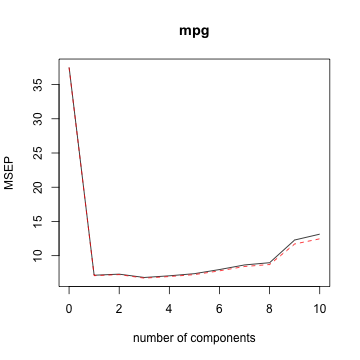
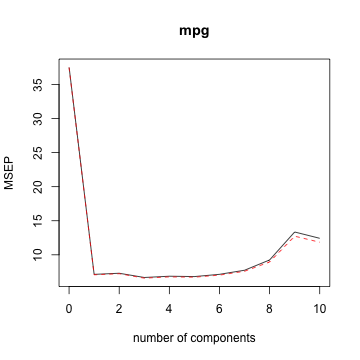
small edits

diff --git a/_posts/2015-12-27-ML-Bias-Variance.md b/_posts/2015-12-27-ML-Bias-Variance.md
@@ -62,15 +62,32 @@ For continuous responses, the root mean square error is often used. This is defi
 $$RMSE = \sqrt{E\left((x - \bar{x})^2\right)}$$
 
 ## Classification
-For binary responses, ROC (Receiver Operating Characteristic) curve and AUC (Area Under the Curve) can be used. 
+The following is the confusion matrix we would get for a two-class classification problem. 
 
 <img src="/nhuyhoa/figure/source/2015-12-27-ML-Bias-Variance/unnamed-chunk-3-1.png" title="plot of chunk unnamed-chunk-3" alt="plot of chunk unnamed-chunk-3" style="display: block; margin: auto;" />
 
 There are four possible outcomes:
 
-* True positive (I): (+) instance correctly classified as (+)
-* False positive (II): (-) instance incorrectly classified as (+)
-* False negative (III): (+) instance incorrectly classified as (-)
-* True negative (IV): (-) instance correctly classified as (-)
+* **True positive (I)**: (+) instance correctly classified as (+)
+* **False positive (II)**: (-) instance incorrectly classified as (+)
+* **False negative (III)**: (+) instance incorrectly classified as (-)
+* **True negative (IV)**: (-) instance correctly classified as (-)
 
-The ROC curve plots the true positive rate $$\left( P(predict.T \vert actual.T) \right)$$ vs. the false positive rate $$\left( P(predict.T \vert actual.F) \right)$$ across a range of thresholds. Then the AUC is calculated as a measure of accuracy. A perfect model has a $$AUC = 1$$. A model with an $$AUC = 0.5$$ is no better than random guessing.
+### ROC
+For binary responses, ROC (Receiver Operating Characteristic) AUC (Area Under the Curve) can be used. 
+
+* **True positive rate** $$= \left( P(predict.T \vert actual.T) \right)$$
+* **False positive rate** $$= \left( P(predict.T \vert actual.F) \right)$$ 
+
+The ROC curve plots the true positive rate  vs. the false positive rate across a range of thresholds. Then the AUC is calculated as a measure of accuracy. A perfect model has a $$AUC = 1$$, the trends should hug the upper left corner of the curve. A model with an $$AUC = 0.5$$ is no better than random guessing.
+
+### Precision Recall Curves
+Precision recall curves are preferred over ROC when there are highly skewed classes. 
+
+* **Precision** $$= \frac{true.positive}{true.positive + false.positive}$$
+* **Recall** $$= \frac{true.positive}{true.positive + false.negative}$$ 
+
+For example, cancer cases may be skewed towards the negative cancer (more non-cancer cases than cancer). However, it is extremely important to detect cancer when it exists. So focusing on precision and recall is definitely preferred over true positive and false positive rates. 
+
+The PR curve plots the precision vs. recall. An ideal algorithm will hug the upper right hand side of the curve. 
+

diff --git a/_posts/2016-01-12-Sample-Size-Calculations.md b/_posts/2016-01-12-Sample-Size-Calculations.md
@@ -30,19 +30,19 @@ Let $$\theta$$ be the parameter of interest. From this, we have
 * score function $$U(\theta)$$
 * information $$I(\theta)$$
 
-In large samples, we have $$E[U(\theta)] = I(0) \theta$$. 
+In large samples, we have $$E_{\theta}[U(0)] = I(0) \theta$$. 
 
 The test statistic for $$H_0: \theta = 0$$ is 
 
-$$E[Z(0)] = E \left( \frac{U(0)}{\sqrt{I(0)}} \right) = \sqrt{I(0)} \theta$$
+$$E[Z(0)] = E_{\theta} \left( \frac{U(0)}{\sqrt{I(0)}} \right) = \sqrt{I(0)} \theta$$
 
 To obtain sample sizes, we have
 
-$$Z_{1 - \alpha/2} + Z_{1 - \beta} = \sqrt{E[I(0)]} \theta_1$$
+$$Z_{1 - \alpha/2} + Z_{1 - \beta} = \sqrt{E_{\theta}[I(0)]} \theta_1$$
 
 So the required Fischer information is
 
-$$f(n) = E[I(0)] = \frac{(Z_{1 - \alpha/2} + Z_{1 - \beta})^2}{\theta_1^2}$$
+$$f(n) = E_{\theta}[I(0)] = \frac{(Z_{1 - \alpha/2} + Z_{1 - \beta})^2}{\theta_1^2}$$
 
 From here we can calculate $$E[I(0)]$$, which is a function of required sample $$n$$ (required sample size), and solve for $$n$$. We can assume that $$E_{H_0}[I(0)] = E_{H_1}[I(0)]$$.
  
@@ -59,7 +59,7 @@ $$n = \frac{(Z_{1 - \alpha/2} + Z_{1 - \beta})^2}{\epsilon_1 \epsilon_2 \bar{p} 
 
 * Two-sample binomial data where $$\theta$$ proportion difference
 
-$$n = \frac{(Z_{1 - \alpha/2} + Z_{1 - \beta})^2 \bar{p} (1 - \bar{p})}{\epsilon_1 \epsilon_2  \theta_1^2}$$
+$$n = \frac{(Z_{1 - \alpha/2} + Z_{1 - \beta})^2 \bar{p} (1 - \bar{p})}{\epsilon_1 \epsilon_2  (p_0 - p_1)^2}$$
  
 * Survival data assuming proportional hazards
 
@@ -67,7 +67,9 @@ $$n\bar{p} = \frac{(Z_{1 - \alpha/2} + Z_{1 - \beta})^2}{\epsilon_1 \epsilon_2n 
 
 where $$\bar{p}$$ is the probability of an observed event.
 
+# In R
+R has several functions to calculate desired power and sample sizes. 
 
-The derivations for these calculations are available [here][sample_size_calc]{:target = "_blank"}.
-
-[sample_size_calc]:
+* `power.anova.test()`
+* `power.t.test()`
+* `power.prop.test()`

diff --git a/_posts/2016-01-03-ML-Dimension-Reduction.md b/_posts/2016-01-03-ML-Dimension-Reduction.md
@@ -161,11 +161,11 @@ summary(pcr.fit)
 ## VALIDATION: RMSEP
 ## Cross-validated using 10 random segments.
 ##        (Intercept)  1 comps  2 comps  3 comps  4 comps  5 comps
-## CV           6.123    2.673    2.702    2.610    2.657    2.715
-## adjCV        6.123    2.661    2.690    2.592    2.637    2.690
+## CV           6.123    2.670    2.701    2.583    2.619    2.609
+## adjCV        6.123    2.659    2.689    2.565    2.600    2.592
 ##        6 comps  7 comps  8 comps  9 comps  10 comps
-## CV       2.823    2.940    2.995    3.506     3.625
-## adjCV    2.790    2.902    2.951    3.421     3.530
+## CV       2.671    2.781    3.040    3.654     3.525
+## adjCV    2.650    2.754    2.992    3.568     3.442
 ## 
 ## TRAINING: % variance explained
 ##      1 comps  2 comps  3 comps  4 comps  5 comps  6 comps  7 comps

diff --git a/_posts/2016-01-03-Likelihood.md b/_posts/2016-01-03-Likelihood.md
@@ -113,6 +113,8 @@ $$ \frac{\hat{\beta}^2}{Var[\hat{\beta}]} $$ ~ $$\chi^2_1$$
 
 We see that for the score test, we do not need to compute the MLE for $$\beta$$. This makes it computationally easier and preferred.
 
+Example calculations are available [here][likelihood_calc]{:target = "_blank"}. 
+
 ## Likelihood Test for Stratified Data
 The score test is preferred when the data is stratified (split out across different categorical variables) because it doesn't require estimates of $$\theta$$.
 
@@ -123,4 +125,4 @@ For the score test:
 * global Fischer information is $$I(\theta) = \sum_k I(\theta)$$
 * global score test of $$H_0: \theta = 0$$ is $$\frac{U(0)^2}{I(0)} = \frac{(\sum_k U_k(0))^2}{\sum_k I_k(0)}$$
 
-
+[likelihood_calc]:https://drive.google.com/file/d/0B5VF_idvHAmMMlFrYUg5Q0ttVXM/view?usp=sharing

diff --git a/_posts/2015-12-27-Resampling-Techniques.md b/_posts/2015-12-27-Resampling-Techniques.md
@@ -45,8 +45,8 @@ We have the following hypothesis
 
 **Algorithm:**
 
-* Repeat a large number of times:
-  * Shuffle the group assignments to each data point
+* Repeat a large number of times (idea is to obtain all possible permutations):
+  * Shuffle/scramble the group assignments to each data point
   * Calculate test statistic for new group assignments
 * Compare distribution of permuted test statistics with the observed test statistic
   * With histogram: where does observed test statistic fall on the distribution of permuted test statistics?
